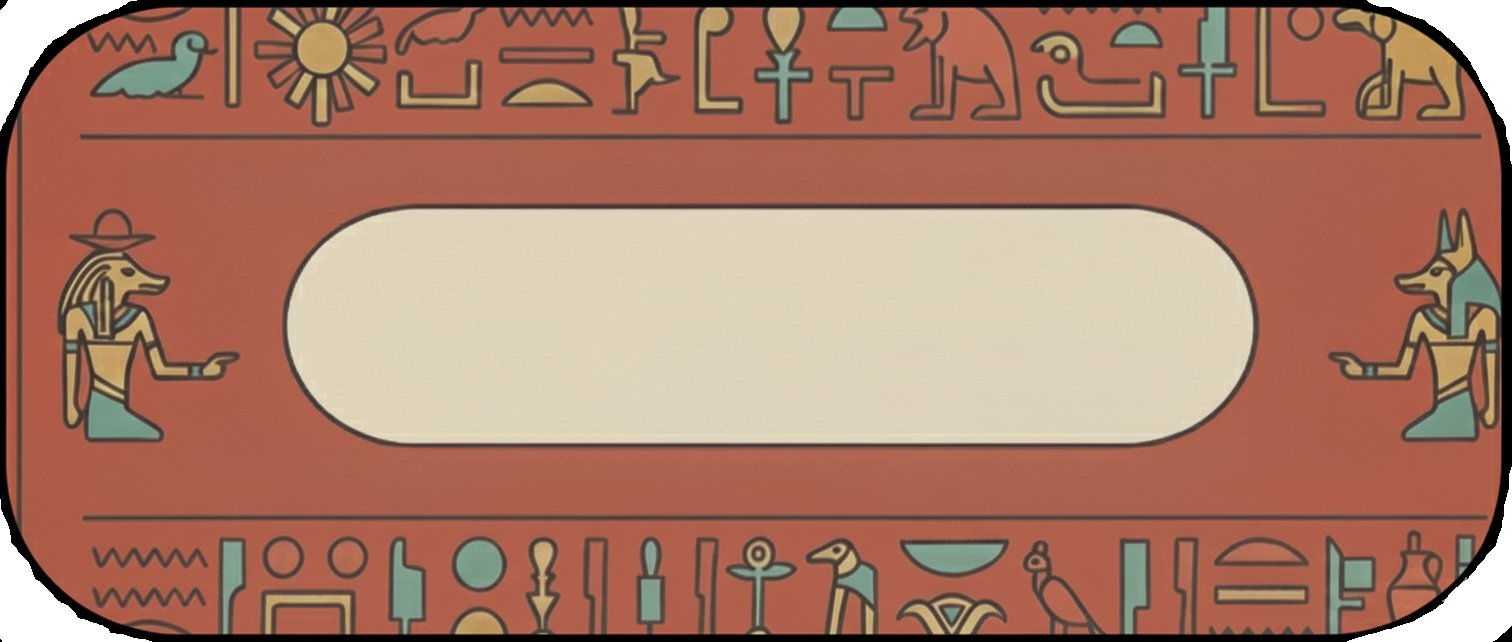
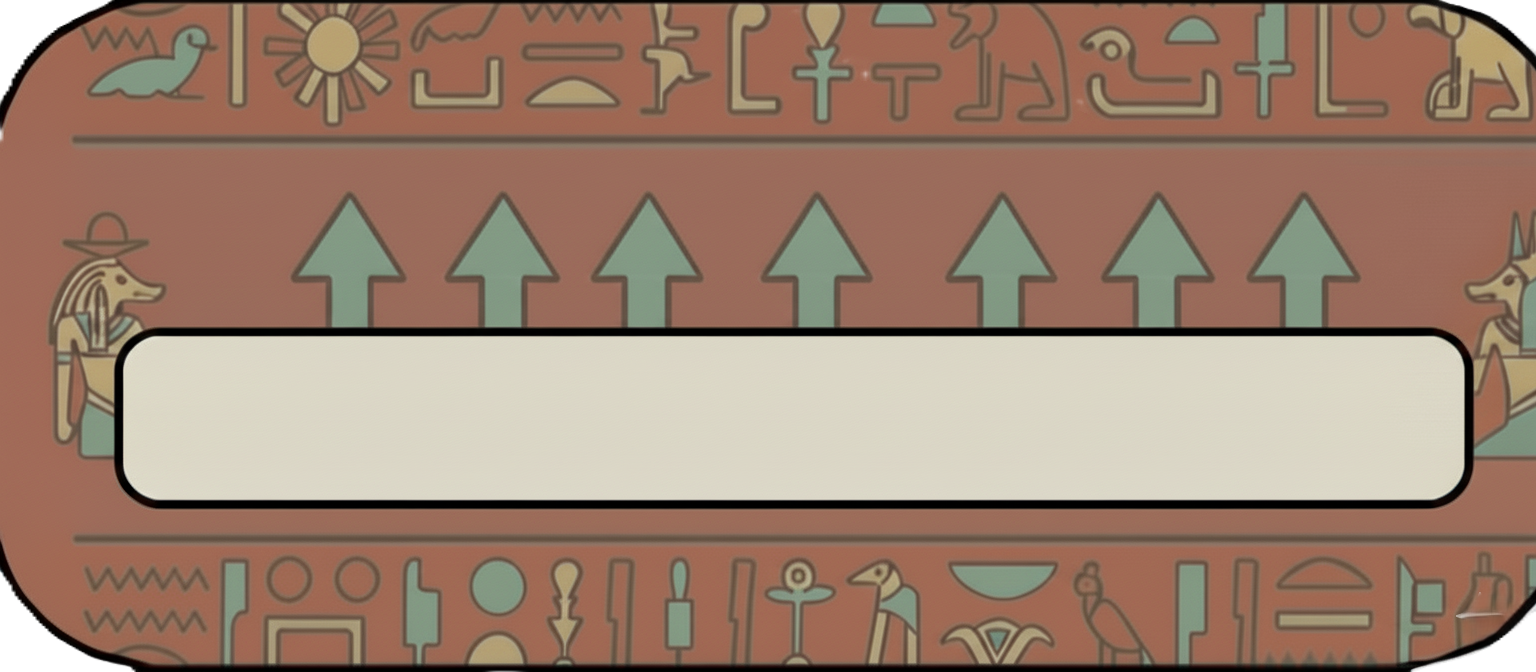
them anh

diff --git a/src/main/java/arkanoid/source/code/graphic/Texture.java b/src/main/java/arkanoid/source/code/graphic/Texture.java
@@ -23,10 +23,18 @@ public class Texture {
     private static Image expandPaddleImage;
     private static Image speedUpPaddleImage;
     private static Image explosiveBallImage;
+    private static Image bongnoImage;
+    private static Image slowBallImage;
+    private static Image tripleBallImage;
+    private static Image healthImage;
     public enum PowerUpType {
         EXPAND,
         SPEED_UP,
-        EXPLOSIVE
+        EXPLOSIVEBALL,
+        SLOWBALL,
+        TRIPLEBALL,
+        HEALTH
+
     }
     private static Image[] brickImages = new Image[8];
 
@@ -47,6 +55,10 @@ public class Texture {
             expandPaddleImage = loadImage("/arkanoid/resources/powerup_expandpaddle.png");
             speedUpPaddleImage = loadImage("/arkanoid/resources/powerup_speedpaddle.png");
             explosiveBallImage = loadImage("/arkanoid/resources/powerup_explosiveball.png");
+            bongnoImage = loadImage("/arkanoid/resources/explosiveball.png");
+            slowBallImage = loadImage("/arkanoid/resources/powerup_slowball.png");
+            tripleBallImage = loadImage("/arkanoid/resources/powerup_tripleball.png");
+            healthImage = loadImage("/arkanoid/resources/powerup_health.png");
 
         } catch (Exception e) {
             System.err.println("Error loading textures resources");
@@ -83,6 +95,12 @@ public class Texture {
         }
     }
 
+    public static void applyExplosiveTextureToBall(Circle ballShape) {
+        if (bongnoImage != null) {
+            ballShape.setFill(new ImagePattern(bongnoImage));
+        }
+    }
+
     public static void applyTextureToPaddle(Rectangle paddleShape) {
         if (paddleImage != null) {
             paddleShape.setFill(new ImagePattern(paddleImage));
@@ -105,6 +123,17 @@ public class Texture {
     public static Image getExplosiveBallImage() {
         return explosiveBallImage;
     }
+    public static Image getSlowBallImage() {
+        return slowBallImage;
+    }
+
+    public static Image getTripleBallImage() {
+        return tripleBallImage;
+    }
+
+    public static Image getHealthImage() {
+        return healthImage;
+    }
     public static void applyTextureToPowerUp(Rectangle powerUpShape, PowerUpType type) {
         Image texture = null;
 
@@ -115,8 +144,17 @@ public class Texture {
             case SPEED_UP:
                 texture = speedUpPaddleImage;
                 break;
-            case EXPLOSIVE:
+            case EXPLOSIVEBALL:
                 texture = explosiveBallImage;
+                break;
+            case SLOWBALL:
+                texture = slowBallImage;
+                break;
+            case TRIPLEBALL:
+                texture = tripleBallImage;
+                break;
+            case HEALTH:
+                texture = healthImage;
                 break;
         }
         if (texture != null) {

diff --git a/src/main/java/arkanoid/source/code/gameplay/powerup/ExplosiveBall.java b/src/main/java/arkanoid/source/code/gameplay/powerup/ExplosiveBall.java
@@ -1,11 +1,11 @@
 package arkanoid.source.code.gameplay.powerup;
 
 import arkanoid.source.code.config.Config;
+import arkanoid.source.code.gameplay.Ball;
 import arkanoid.source.code.gameplay.GameObject;
 import arkanoid.source.code.gameplay.brick.Brick;
 import arkanoid.source.code.gameplay.brick.BrickSet;
 import arkanoid.source.code.graphic.Texture;
-import javafx.scene.paint.Color;
 
 public class ExplosiveBall extends PowerUp {
     private static boolean inExplosiveMode = false;
@@ -16,7 +16,7 @@ public class ExplosiveBall extends PowerUp {
     // constructor
     public ExplosiveBall(double x, double y) {
         super(x, y, Config.EXPLOSIVE_BALL_PROBABILITY, Config.EXPLOSIVE_BALL_DURATION);
-        Texture.applyTextureToPowerUp(shape, Texture.PowerUpType.EXPLOSIVE);
+        Texture.applyTextureToPowerUp(shape, Texture.PowerUpType.EXPLOSIVEBALL);
     }
 
     // getter setter BEGIN
@@ -27,6 +27,9 @@ public class ExplosiveBall extends PowerUp {
 
     public void applyEffect(GameObject o) {
         inExplosiveMode = true;
+        if (o instanceof Ball) {
+            Texture.applyExplosiveTextureToBall(((Ball) o).getShape());
+        }
     }
 
     public static void explosiveDamage(BrickSet brickSet, int i, int j, PowerUpList powerUpList) {
@@ -49,5 +52,8 @@ public class ExplosiveBall extends PowerUp {
 
     public void removeEffect(GameObject o) {
         inExplosiveMode = false;
+        if (o instanceof Ball) {
+            Texture.applyTextureToBall(((Ball) o).getShape());
+        }
     }
 }
